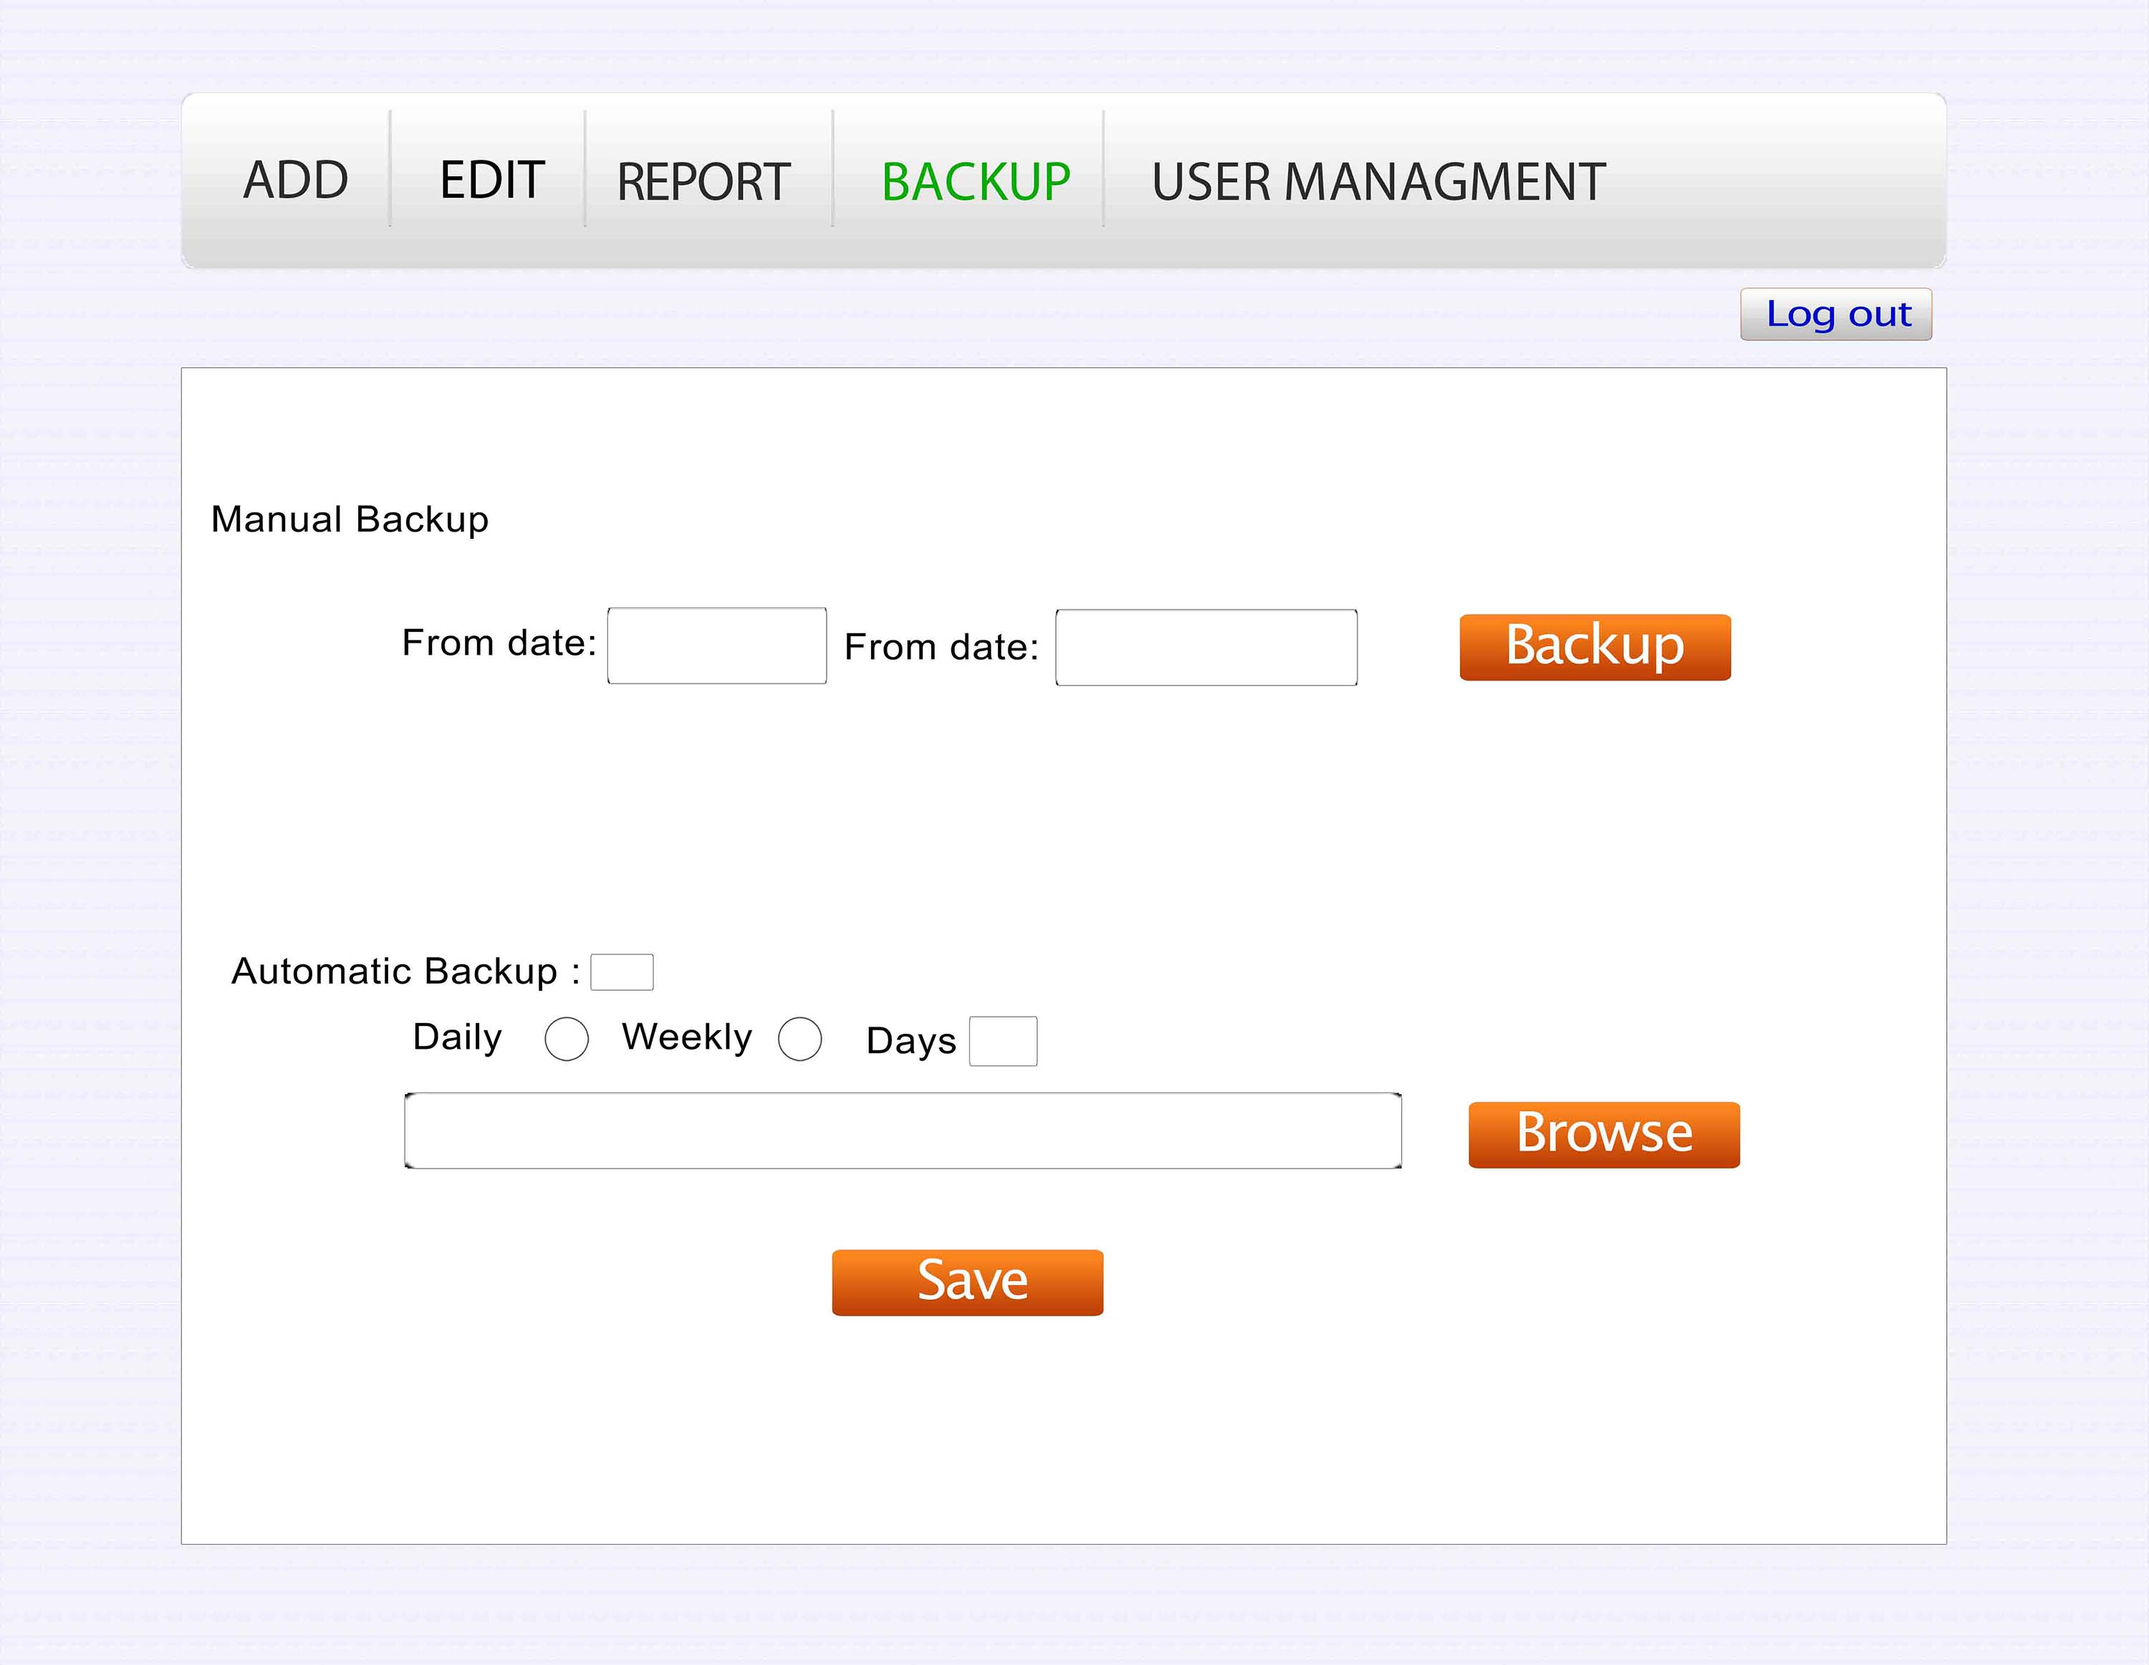
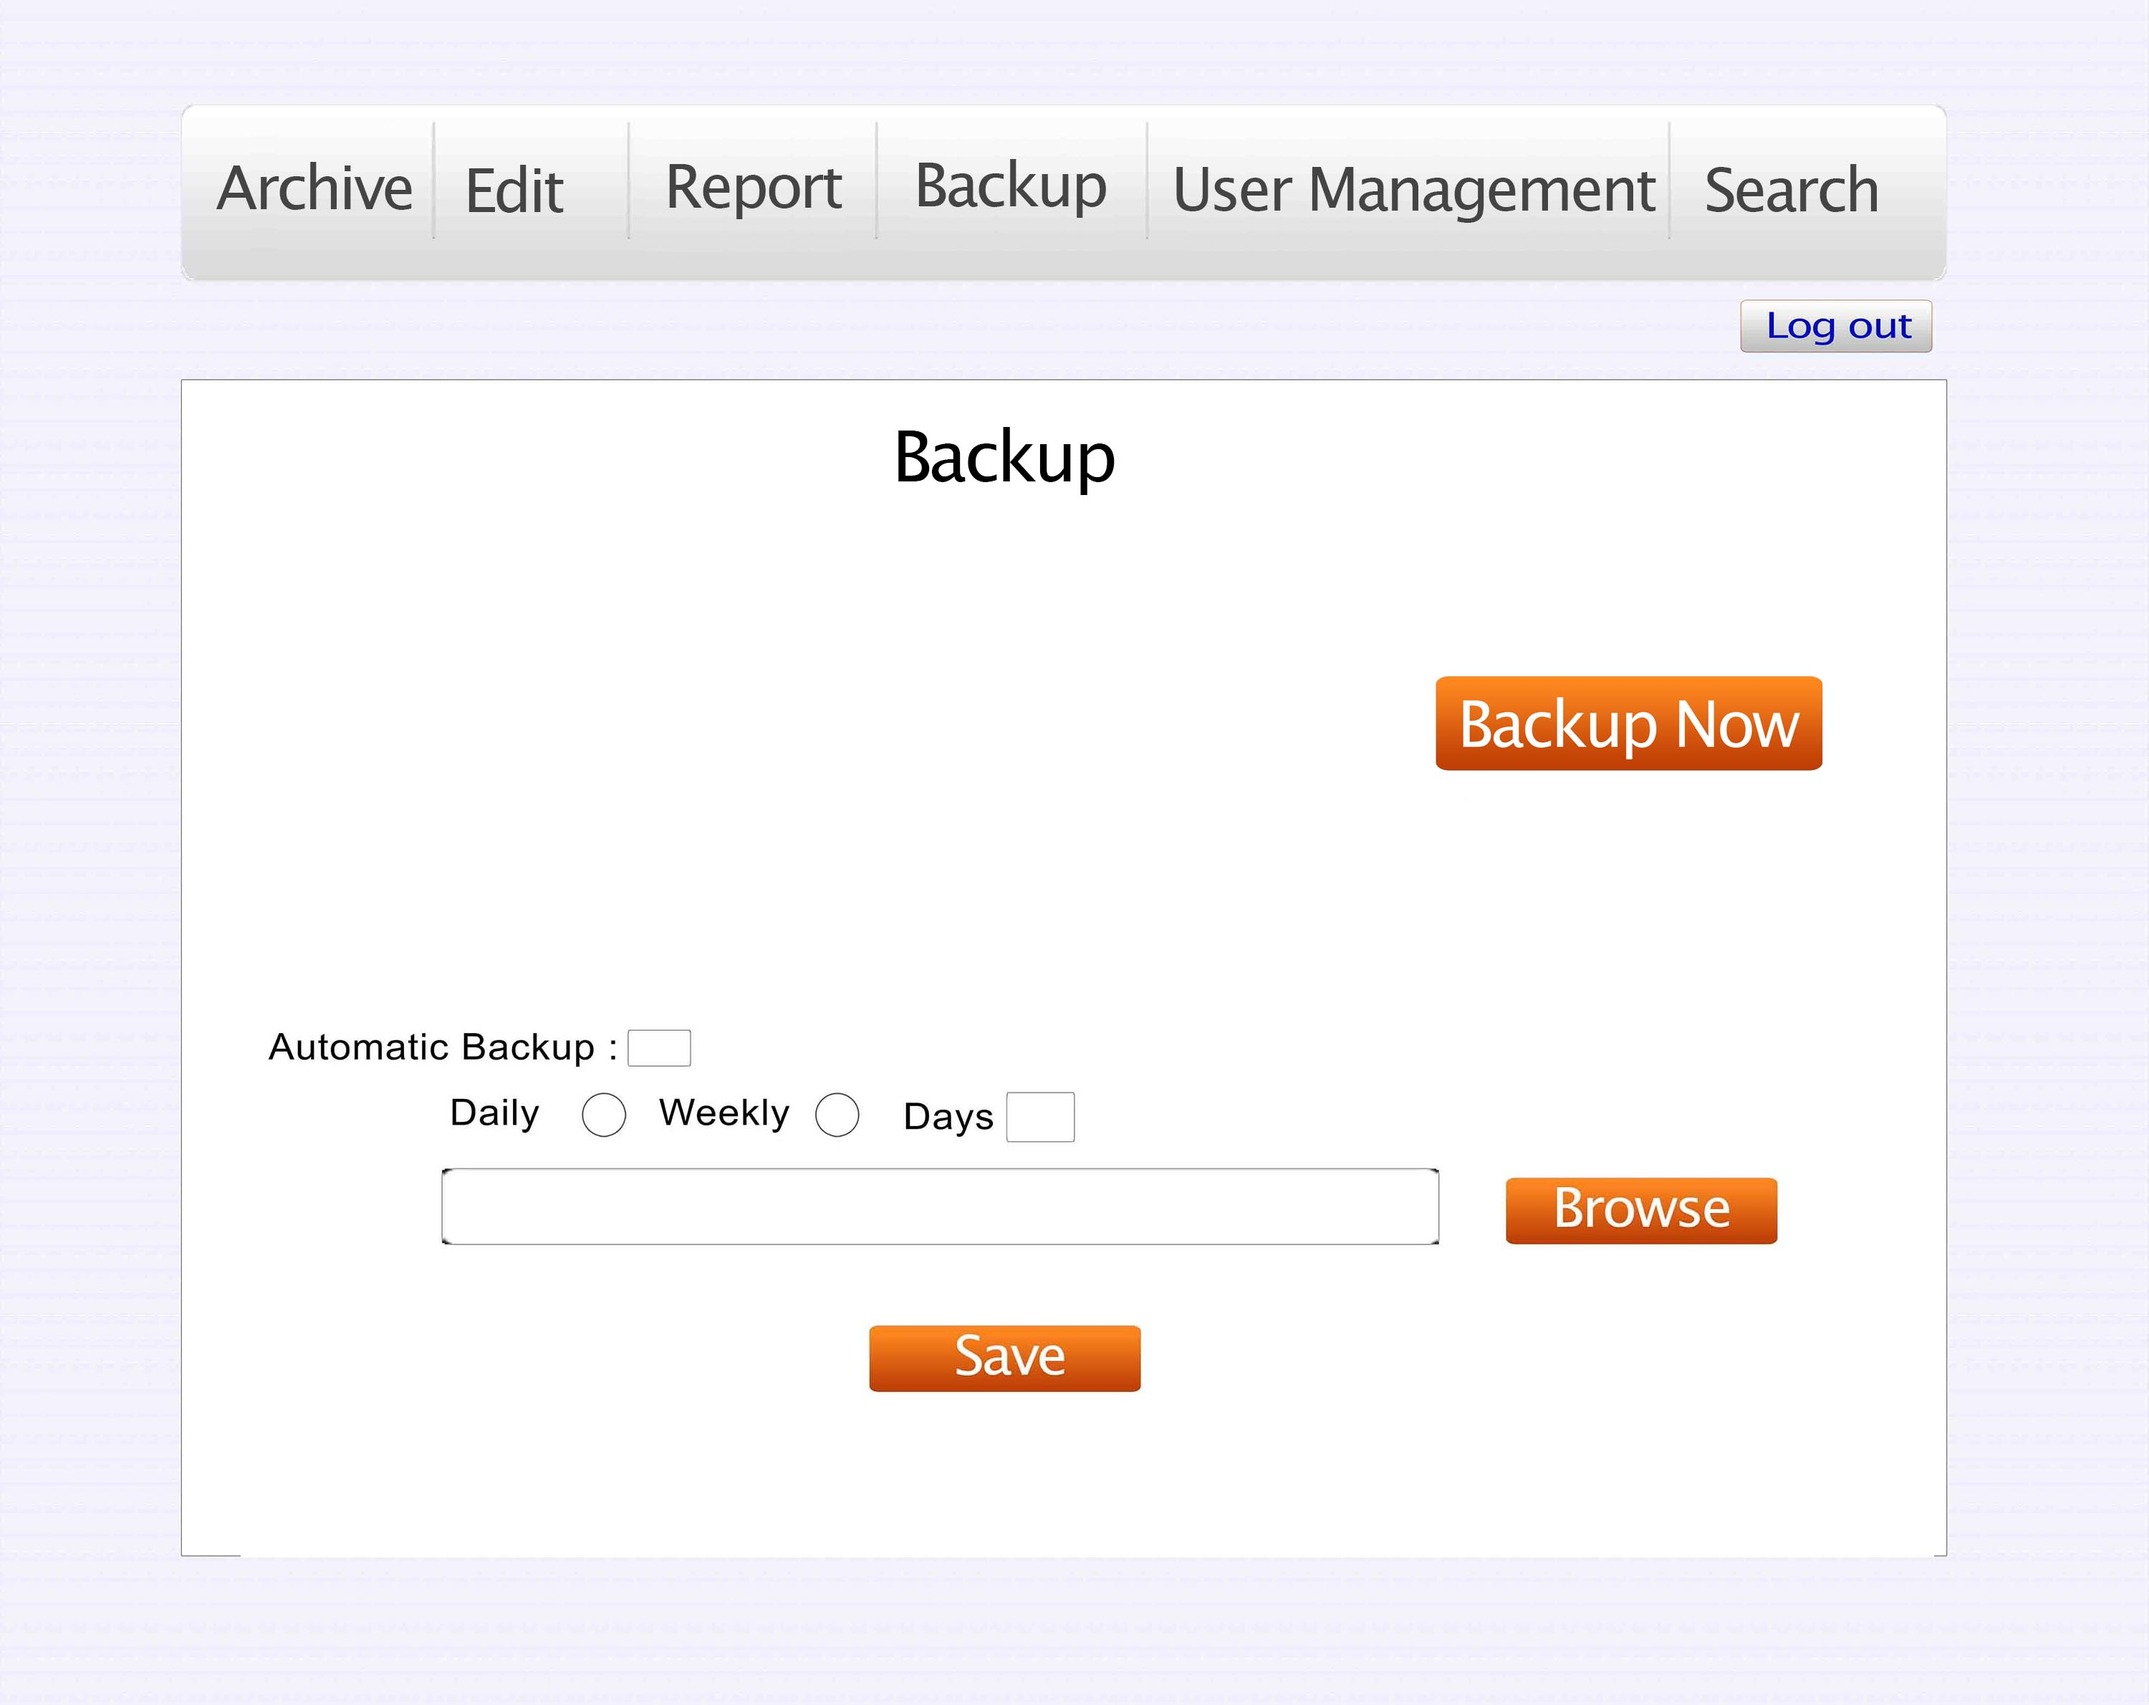
Full Report updated

diff --git a/Documentation/Full Report/Full Report.md b/Documentation/Full Report/Full Report.md
@@ -405,23 +405,25 @@ Functional Requirement Specification
 7_ As an administrator I can add new authorized users or remove existing ones <br> <br>
 
 #User Interface
-Fig1: Login 
+Fig1: Login <br>  
 <img src="UI-Images/1-login.jpg" height="450" width="800"> <br> 
-Fig2: Add 
+Fig2: Archive  <br>
 <img src="UI-Images/2-add.jpg" height="630" width="800"> <br> 
-Fig3: Edit 
-<img src="UI-Images/3-Edit.jpg" height="630" width="800"> <br> 
-Fig4: Edit-2 
-<img src="UI-Images/4-Editt.jpg" height="630" width="800"> <br> 
-Fig5: Report-1 
+Fig3: Edit-1  <br>
+<img src="UI-Images/edit-1.jpg" height="630" width="800"> <br> 
+Fig4: Edit-2  <br>
+<img src="UI-Images/edit-2.jpg" height="630" width="800"> <br> 
+Fig5: Edit-3  <br>
+<img src="UI-Images/edit-3.jpg" height="630" width="800"> <br> 
+Fig6: Report  <br>
 <img src="UI-Images/5-Report-1.jpg" height="630" width="800"> <br> 
-Fig6: Report-2 
-<img src="UI-Images/5-Report-2.jpg" height="630" width="800"> <br> 
-Fig7: Backup 
+Fig7: Search  <br>
+<img src="UI-Images/search.jpg" height="630" width="800"> <br> 
+Fig8: Backup  <br>
 <img src="UI-Images/6-Backup.jpg" height="630" width="800"> <br> 
-Fig8: User management 
+Fig9: User management-add  <br> 
 <img src="UI-Images/7-user-management.jpg" height="630" width="800"> <br> 
-Fig9: User management-2 
+Fig10: User management-delete <br> 
 <img src="UI-Images/8-user-management.jpg" height="630" width="800"> <br> 
 
 
